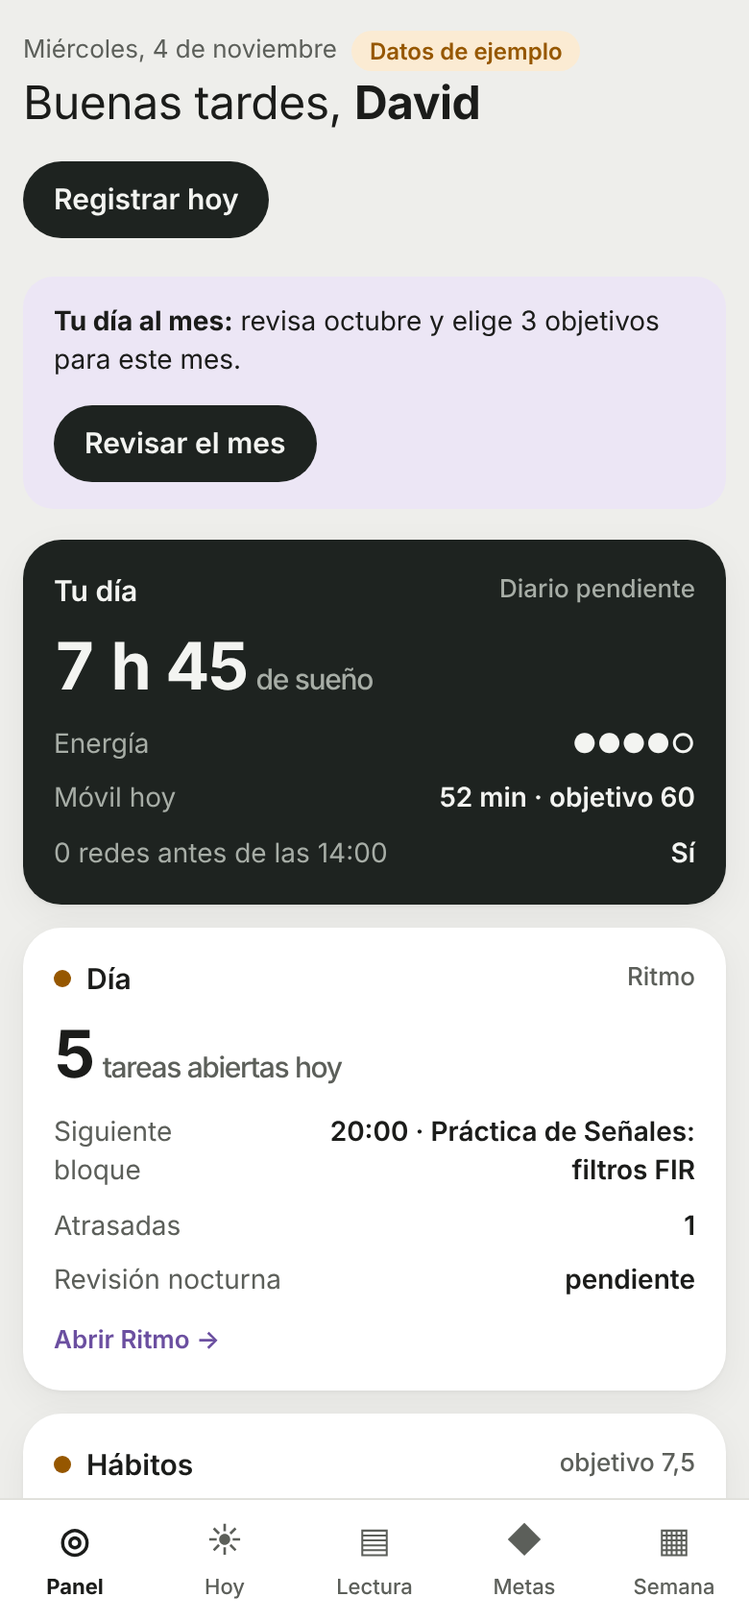
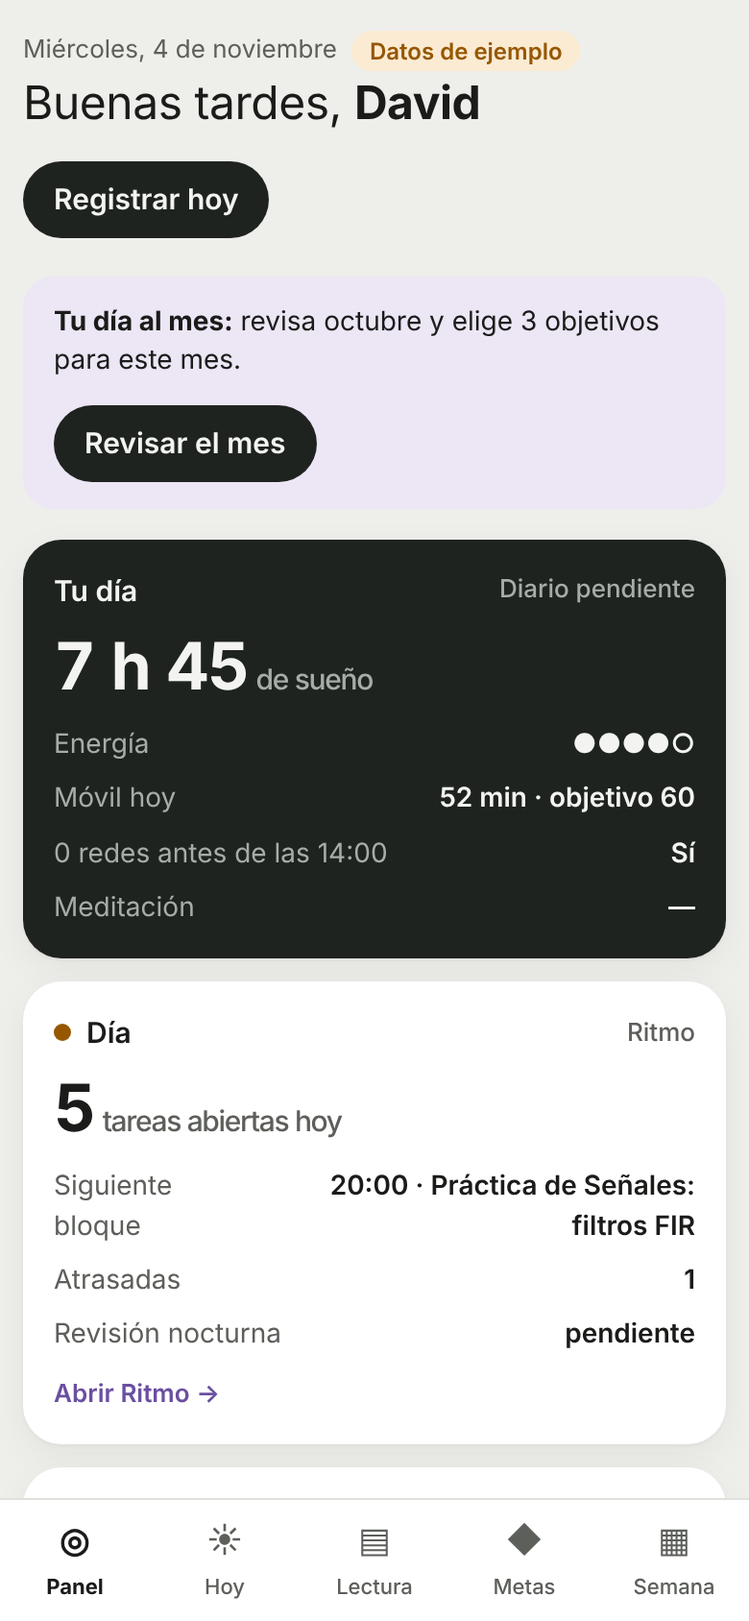
Panel: aviso de copia de seguridad, meditación (también desde Salud) y copiar resumen semanal/mensual en Markdown
Claude-Session: https://claude.ai/code/session_01EwHxjkazRTL95ooTegBwNP

Changed region(s): [[0.0308, 0.5237, 0.9846, 0.9242]]

diff --git a/28-panel-vida/app.js b/28-panel-vida/app.js
@@ -183,6 +183,7 @@
     if (firstRun) out.push(`<div class="callout"><p><b>Primer paso (1 minuto):</b> en <i>Hoy</i> apunta a qué hora te acostaste y te levantaste, tu energía y el móvil. Cada tarjeta se llena sola con lo que apuntes aquí y en tus otras apps. ¿Quieres verlo lleno antes? Carga los datos de ejemplo en <a href="#/ajustes">Ajustes</a>.</p><a class="btn primary" href="#/hoy" style="text-decoration:none">Empezar</a></div>`);
     else if (!S.reviews[wk] && P.dow(t) >= 6) out.push(`<div class="callout"><p><b>Toca la revisión semanal.</b> 10 minutos: cómo fue la semana en todas tus áreas y 3 prioridades para la siguiente.</p><a class="btn primary" href="#/semana" style="text-decoration:none">Empezar</a></div>`);
     else if (!S.reviews[prevWk] && P.dow(t) === 1) out.push(`<div class="callout"><p><b>No hiciste la revisión de la semana pasada.</b> Aún estás a tiempo.</p><a class="btn primary" href="#/semana?d=${P.addDays(t, -7)}" style="text-decoration:none">Hacerla ahora</a></div>`);
+    { const bd = P.backupDue(S, t); if (bd !== null) out.push(`<div class="callout"><p><b>${bd === Infinity ? "Aún no has hecho ninguna copia de seguridad." : `Tu última copia de seguridad es de hace ${bd} días.`}</b> Tus datos solo viven en este navegador: descárgala y guárdala en iCloud o Drive.</p><button class="btn primary" id="backupAll">Descargar copia</button></div>`); }
     { const pm = P.prevYM(t.slice(0, 7)); if (Number(t.slice(8)) <= 7 && !S.monthReviews[pm]) out.push(`<div class="callout"><p><b>Tu día al mes:</b> revisa ${P.MONTHS[Number(pm.slice(5)) - 1]} y elige 3 objetivos para este mes.</p><a class="btn primary" href="#/mes" style="text-decoration:none">Revisar el mes</a></div>`); }
     out.push('<div class="grid">');
     // hero "tu día"
@@ -193,6 +194,7 @@
         <div class="row"><span>Energía</span><b>${e.energy ? "●".repeat(e.energy) + "○".repeat(5 - e.energy) : "sin apuntar"}</b></div>
         <div class="row"><span>Móvil hoy</span><b>${e.screenMin !== undefined ? `${e.screenMin} min · objetivo ${S.settings.screenGoalMin}` : "sin apuntar"}</b></div>
         <div class="row"><span>0 redes antes de las 14:00</span><b>${e.noSocialAM === true ? "Sí" : e.noSocialAM === false ? "No" : "—"}</b></div>
+        <div class="row"><span>Meditación</span><b>${e.meditMin ? `${e.meditMin} min` : "—"}${P.meditStreak(S, t) > 1 ? ` · racha ${P.meditStreak(S, t)}` : ""}</b></div>
       </div>
       ${pri.length ? `<p class="faint" style="margin-top:14px">Prioridades de la semana</p><ol style="margin:6px 0 0;padding-left:18px;font-size:14px">${pri.map((p) => `<li>${esc(p)}</li>`).join("")}</ol>` : ""}
     </section>`);
@@ -305,7 +307,9 @@
           <label class="field">Esfuerzo Bevel (%)<input type="number" inputmode="numeric" min="0" max="100" data-f="strain" value="${e.strain ?? ""}" placeholder="opcional"></label></div>
       </section>
       <section class="card c6"><h2>📵 Móvil</h2><p class="sub">Tu hábito: 0 redes antes de las 14:00 y máximo ${S.settings.screenGoalMin} min.</p>
-        <div class="fields"><label class="field">Tiempo de pantalla (min)<input type="number" inputmode="numeric" min="0" max="1440" step="5" data-f="screenMin" value="${e.screenMin ?? ""}" placeholder="p. ej. 55"></label></div>
+        <div class="fields"><label class="field">Tiempo de pantalla (min)<input type="number" inputmode="numeric" min="0" max="1440" step="5" data-f="screenMin" value="${e.screenMin ?? ""}" placeholder="p. ej. 55"></label>
+          <label class="field">🧘 Meditación (min)<input type="number" inputmode="numeric" min="0" max="600" step="1" data-f="meditMin" value="${e.meditMin ?? ""}" placeholder="p. ej. 10"></label></div>
+        <p class="faint" style="margin-top:6px">Meditación: ${P.meditStreak(S, t)} ${P.meditStreak(S, t) === 1 ? "día seguido" : "días seguidos"}. Las sesiones de «Mindfulness» de Salud llegan solas con Importar salud.</p>
         <label class="check" style="margin-top:12px"><input type="checkbox" data-f="noSocialAM" ${e.noSocialAM ? "checked" : ""}> 0 redes sociales antes de las 14:00</label>
         <details class="help"><summary>¿Dónde lo miro?</summary>iPhone: <i>Ajustes → Tiempo de uso → Ver toda la actividad</i>, pestaña <i>Día</i>. Apunta el total de ayer por la mañana si te resulta más fácil (cambia el día con ‹).</details>
       </section>
@@ -416,7 +420,9 @@
       ["Tareas hechas (Ritmo)", snap.tasksDone != null ? String(snap.tasksDone) : null, null],
       ["Gasto", snap.spend != null ? euros(snap.spend) : null, null],
       ["Diario", `${snap.journalDays} de ${snap.days} días`, null],
+      ["Meditación", snap.meditDays ? `${snap.meditDays} días · ${snap.meditMin} min` : null, undefined],
     ];
+    shareData = { title: `Semana ${Number(wk.slice(6))} · ${P.fmtDay(ws)} – ${P.fmtDay(P.addDays(ws, 6))} ${ws.slice(0, 4)}`, rows: rowsA.map(([k, val]) => [k, val]), review: rv || null };
     const journals = days.filter((d) => P.journalDone(S.days[d])).map((d) => { const j = S.days[d].journal; return `<div class="journal-entry"><b>${P.fmtLong(d)}</b>${j.good ? `✓ ${esc(j.good)}<br>` : ""}${j.better ? `↗ ${esc(j.better)}<br>` : ""}${j.grateful ? `♡ ${esc(j.grateful)}` : ""}</div>`; }).join("");
     const v = rv || { wins: ["", "", ""], lesson: "", priorities: ["", "", ""], score: null };
     const nav = `<div class="seg" role="group" aria-label="Cambiar de semana"><button data-wgo="${P.addDays(ws, -7)}" aria-label="Semana anterior">‹</button>${ws !== P.weekStart(t) ? `<button data-wgo="${t}">Esta semana</button>` : ""}<button data-wgo="${P.addDays(ws, 7)}" aria-label="Semana siguiente" ${P.addDays(ws, 7) > t ? "disabled" : ""}>›</button></div>`;
@@ -434,7 +440,7 @@
             <label class="field">Lo que aprendí / cambiaría<textarea name="lesson" maxlength="500">${esc(v.lesson)}</textarea></label>
             ${[0, 1, 2].map((i) => `<label class="field">Prioridad ${i + 1} para la semana que viene<input name="p${i}" maxlength="300" value="${esc(v.priorities[i] || "")}"></label>`).join("")}
           </div>
-          <div class="actions"><button class="btn primary">${rv ? "Actualizar revisión" : "Guardar revisión"}</button><span class="faint">Se guarda con la foto de los números de arriba.</span></div>
+          <div class="actions"><button class="btn primary">${rv ? "Actualizar revisión" : "Guardar revisión"}</button><button type="button" class="btn" id="shareWeek">Copiar resumen</button><span class="faint">Se guarda con la foto de los números de arriba. «Copiar resumen» lo deja listo para pegar en Obsidian o Notas.</span></div>
         </form></section>
       <section class="card c12 no-print"><h2>Más allá de la semana</h2><div class="actions"><a class="btn" href="#/mes" style="text-decoration:none">Revisión mensual</a><a class="btn" href="#/informe" style="text-decoration:none">Informe anual (PDF)</a><a class="btn" href="../29-importar-salud/" style="text-decoration:none">Importar salud</a></div></section>
       ${trendCard(t)}
@@ -465,6 +471,13 @@
     </div></section>`;
   }
 
+  let shareData = null;
+  async function share() {
+    if (!shareData) return;
+    const text = P.summaryText(shareData.title, shareData.rows, shareData.review);
+    try { await navigator.clipboard.writeText(text); toast("Resumen copiado: pégalo en Obsidian o Notas"); }
+    catch (e) { window.prompt("Copia el resumen:", text); }
+  }
   // ───────────── MES (revisión mensual) e INFORME ANUAL
   function rangeExt(days, X) {
     const e = {};
@@ -484,7 +497,7 @@
     ["Sueño medio", "sleepAvgMin", (v) => h(v)], ["Energía", "energyAvg", (v) => P.fmtDec(v) + " / 5"], ["Recuperación Bevel", "recoveryAvg", (v) => Math.round(v) + " %"],
     ["Móvil", "screenAvg", (v) => Math.round(v) + " min/día"], ["Sesiones de deporte", "sport", (v) => String(v)], ["Hábitos", "habitsMean", (v) => P.fmtDec(v) + " / día"],
     ["Francés", "frMin", (v) => `${P.fmtDec(v / 60)} h`], ["Pasos", "stepsAvg", (v) => P.fmtInt(v) + " /día"], ["Lectura", "pages", (v) => `${v} págs.`],
-    ["Cursos", "learnMin", (v) => `${v} min`], ["Diario", "journalDays", (v) => `${v} días`], ["Gasto", "spend", (v) => euros(v)],
+    ["Cursos", "learnMin", (v) => `${v} min`], ["Diario", "journalDays", (v) => `${v} días`], ["Meditación", "meditMin", (v) => `${v} min`], ["Gasto", "spend", (v) => euros(v)],
   ];
   function vMes(t, X, r) {
     const ym = r.m && `${r.m}-01` <= t ? r.m : P.monthDefault(S, t), days = P.monthDays(ym, t), prev = P.prevYM(ym);
@@ -492,6 +505,7 @@
     const rv = S.monthReviews[ym], v = rv || P.normMonthReview({}), nx = P.nextYM(ym);
     const delta = (k, fmt) => (snap[k] != null && before[k] != null && Math.abs(snap[k] - before[k]) > 0.0001 ? `<span class="faint"> ${snap[k] > before[k] ? "↑" : "↓"} ${fmt(Math.abs(snap[k] - before[k]))}</span>` : "");
     const nav = `<div class="seg" role="group" aria-label="Cambiar de mes"><button data-mgo="${prev}" aria-label="Mes anterior">‹</button><button data-mgo="${nx}" aria-label="Mes siguiente" ${`${nx}-01` > t ? "disabled" : ""}>›</button></div>`;
+    shareData = { title: cap(monthName(ym)), rows: MROWS.map(([label, k, fmt]) => [label, snap[k] == null ? null : fmt(snap[k])]), review: rv || null };
     const habObjs = X.habits ? safe(() => R.objectivesOf(X.habits, ym)) || [] : [];
     return header(`Revisión mensual · tu «día al mes»`, `<b>${cap(monthName(ym))}</b>${rv ? ' <span class="chip ok">hecha</span>' : ""}`, nav) + `<div class="grid">
       <section class="card c5"><h2>Cómo fue el mes <span class="right">${snap.days} días · vs. ${P.MONTHS[Number(prev.slice(5)) - 1]}</span></h2>
@@ -510,7 +524,7 @@
             ${[0, 1, 2].map((i) => `<label class="field">Objetivo ${i + 1} para ${P.MONTHS[Number(nx.slice(5)) - 1]}<input name="o${i}" maxlength="300" value="${esc(v.objectives[i])}"></label>`).join("")}
           </div>
           <label class="check" style="margin-top:12px"><input type="checkbox" name="toHab" ${R ? "checked" : "disabled"}> Poner estos 3 objetivos en Hábitos para ${P.MONTHS[Number(nx.slice(5)) - 1]} (los ves en Ritmo y en la hoja de 15)</label>
-          <div class="actions"><button class="btn primary">${rv ? "Actualizar revisión" : "Guardar revisión"}</button><span class="faint">Se guarda con la foto de los números.</span></div>
+          <div class="actions"><button class="btn primary">${rv ? "Actualizar revisión" : "Guardar revisión"}</button><button type="button" class="btn" id="shareMonth">Copiar resumen</button><span class="faint">Se guarda con la foto de los números.</span></div>
         </form>
         <details class="help"><summary>Ideas para tu día al mes</summary>Repasa tus visiones y metas, mira la tendencia de 8 semanas, ordena finanzas (importa el CSV del banco), planifica el mes en Ritmo y haz la copia de seguridad.</details>
       </section></div>`;
@@ -581,6 +595,7 @@
     if (el.dataset.mgo) { location.hash = `#/mes?m=${el.dataset.mgo}`; return; }
     if (el.dataset.ygo) { location.hash = `#/informe?y=${el.dataset.ygo}`; return; }
     if (el.id === "printBtn") { window.print(); return; }
+    if (el.id === "shareWeek" || el.id === "shareMonth") { share(); return; }
     if (el.dataset.score) { ev.preventDefault(); el.parentElement.querySelectorAll("button").forEach((b) => b.setAttribute("aria-pressed", String(b === el && b.getAttribute("aria-pressed") !== "true"))); return; }
     if (el.dataset.bstatus) { const s = { ...S, books: S.books.map((b) => (b.id === el.dataset.bstatus ? { ...b, status: el.dataset.to } : b)) }; commit(s); return; }
     if (el.dataset.bdel) { const b = S.books.find((x) => x.id === el.dataset.bdel); if (b && confirm(`¿Borrar «${b.title}» y su registro de lectura?`)) commit({ ...S, books: S.books.filter((x) => x !== b), readLog: S.readLog.filter((x) => x.bookId !== b.id) }, "Borrado"); return; }
@@ -595,6 +610,7 @@
         const b = P.buildBackup((k) => store.get(k), P.stamp(new Date())), n = Object.keys(b.data).length;
         const bad = P.APP_KEYS.filter(({ key }) => store.get(key) != null && !(key in b.data)).map((x) => x.app);
         download(`copia-mix-ideas-${today()}.json`, JSON.stringify(b, null, 1));
+        if (corrupt === null && !S.demo) persist({ ...S, lastBackup: today() });
         toast(`Copia descargada (${n} ${n === 1 ? "app" : "apps"})${bad.length ? `. No se pudieron incluir, están dañados: ${bad.join(", ")}` : ""}`);
         return;
       }
@@ -637,7 +653,7 @@
     if (el.dataset.f) {
       const d = $("[data-day]").dataset.day, f = el.dataset.f;
       let v = el.type === "checkbox" ? el.checked : el.value;
-      if (f === "screenMin" || f === "recovery" || f === "strain") v = el.value === "" || !Number.isFinite(Number(el.value)) ? null : Math.max(0, Math.min(f === "screenMin" ? 1440 : 100, Math.round(Number(el.value))));
+      if (f === "screenMin" || f === "recovery" || f === "strain" || f === "meditMin") v = el.value === "" || !Number.isFinite(Number(el.value)) ? null : Math.max(0, Math.min({ screenMin: 1440, meditMin: 600 }[f] || 100, Math.round(Number(el.value))));
       if (persist(P.setDay(S, d, { [f]: v === "" ? null : v }), f === "screenMin" && v !== null ? `Móvil: ${v} min` : null)) refreshHoy();
       else render(); // not saved (damaged data or full storage): show what is really stored
       return;

diff --git a/28-panel-vida/logic.js b/28-panel-vida/logic.js
@@ -77,6 +77,7 @@
     if (Array.isArray(any.goals)) s.goals = any.goals.filter((g) => isObj(g) && typeof g.title === "string" && g.title.trim()).map(normGoal);
     if (isObj(any.reviews)) for (const [w, v] of Object.entries(any.reviews)) if (/^\d{4}-W\d{2}$/.test(w) && isObj(v)) s.reviews[w] = normReview(v);
     if (isObj(any.monthReviews)) for (const [m, v] of Object.entries(any.monthReviews)) if (/^\d{4}-(0[1-9]|1[0-2])$/.test(m) && isObj(v)) s.monthReviews[m] = normMonthReview(v);
+    if (isISO(any.lastBackup)) s.lastBackup = any.lastBackup;
     if (any.demo === true) {
       s.demo = true;
       // what the Panel held before loading the examples; «Quitar datos de ejemplo» brings it back
@@ -91,6 +92,7 @@
     if (numLike(v.energy) && Number(v.energy) >= 1 && Number(v.energy) <= 5) e.energy = Math.round(Number(v.energy));
     if (numLike(v.screenMin) && Number(v.screenMin) >= 0) e.screenMin = Math.min(1440, Math.round(Number(v.screenMin)));
     if (typeof v.noSocialAM === "boolean") e.noSocialAM = v.noSocialAM;
+    if (numLike(v.meditMin) && Number(v.meditMin) >= 0) e.meditMin = Math.min(600, Math.round(Number(v.meditMin)));
     for (const k of ["recovery", "strain"]) if (numLike(v[k]) && Number(v[k]) >= 0 && Number(v[k]) <= 100) e[k] = Math.round(Number(v[k])); // Bevel, %
     if (isObj(v.journal)) {
       const j = {};
@@ -313,6 +315,39 @@
     return dow(today) === 1 && !state.reviews[isoWeek(today)] && !state.reviews[isoWeek(prev)] ? prev : today;
   }
   /** Snapshot numbers for the week of `iso` (Mon–Sun, capped at today). ext comes from other apps. */
+  // ───────────── meditation, backup reminder, shareable summary
+  function meditStats(state, dates) {
+    const v = dates.map((d) => state.days[d]).filter((e) => e && e.meditMin > 0).map((e) => e.meditMin);
+    return { meditDays: v.length, meditMin: v.reduce((a, b) => a + b, 0) };
+  }
+  function meditStreak(state, today) {
+    const on = (d) => !!(state.days[d] && state.days[d].meditMin > 0);
+    let d = on(today) ? today : addDays(today, -1), n = 0;
+    while (on(d)) { n++; d = addDays(d, -1); }
+    return n;
+  }
+  /** null = no reminder; otherwise days since the last full backup (Infinity = never) once there is something to lose. */
+  function backupDue(state, today, days = 7) {
+    const hasData = Object.keys(state.days).length > 0 || state.books.length > 0 || Object.keys(state.reviews).length > 0;
+    if (!hasData || state.demo) return null;
+    if (!state.lastBackup) return Infinity;
+    const n = daysBetween(state.lastBackup, today);
+    return n >= days ? n : null;
+  }
+  /** Markdown text of a week/month snapshot + review, to paste in Obsidian/Notes. rows = [[label, text|null]]. */
+  function summaryText(title, rows, review) {
+    const out = [`## ${title}`, ""];
+    for (const [k, v] of rows) if (v != null && v !== "") out.push(`- **${k}:** ${v}`);
+    if (review) {
+      if (review.score) out.push(`- **Nota:** ${review.score}/10`);
+      const list = (name, a) => { const x = (a || []).filter((s) => String(s).trim()); if (x.length) { out.push("", `**${name}**`); x.forEach((s) => out.push(`- ${s}`)); } };
+      list("Victorias", review.wins);
+      if (review.lesson) out.push("", `**Lección:** ${review.lesson}`);
+      list("Prioridades", review.priorities); list("Objetivos del mes siguiente", review.objectives);
+    }
+    return out.join("\n") + "\n";
+  }
+
   // ───────────── month & year
   const nextYM = (ym) => { const [y, m] = ym.split("-").map(Number); return m === 12 ? `${y + 1}-01` : `${y}-${pad2(m + 1)}`; };
   const prevYM = (ym) => { const [y, m] = ym.split("-").map(Number); return m === 1 ? `${y - 1}-12` : `${y}-${pad2(m - 1)}`; };
@@ -331,7 +366,7 @@
     const weeks = [...new Set(days.map(isoWeek))], rv = weeks.map((w) => state.reviews[w]).filter(Boolean);
     const scores = rv.map((r) => r.score).filter((x) => x != null);
     return { ym, days: days.length, sleepAvgMin: sl.avgMin, debtMin: sl.debtMin, energyAvg: sl.energyAvg, recoveryAvg: mean(vals("recovery")), strainAvg: mean(vals("strain")),
-      screenAvg: sc.avg, screenOnGoal: sc.onGoal, screenN: sc.n, journalDays: days.filter((d) => journalDone(state.days[d])).length,
+      screenAvg: sc.avg, screenOnGoal: sc.onGoal, screenN: sc.n, journalDays: days.filter((d) => journalDone(state.days[d])).length, ...meditStats(state, days),
       pages: rd.pages, lessons: rd.lessons, learnMin: rd.learnMin,
       booksDone: state.books.filter((b) => b.finished && b.finished.slice(0, 7) === ym).map((b) => b.title),
       weekReviews: rv.length, weeks: weeks.length, scoreAvg: mean(scores), ...ext };
@@ -362,7 +397,7 @@
     return {
       week: isoWeek(iso), from: days[0] || weekStart(iso), to: days.at(-1) || weekStart(iso), days: days.length,
       sleepAvgMin: sl.avgMin, energyAvg: sl.energyAvg, screenAvg: sc.avg, journalDays: days.filter((d) => journalDone(state.days[d])).length,
-      pages: rd.pages, lessons: rd.lessons, learnMin: rd.learnMin,
+      pages: rd.pages, lessons: rd.lessons, learnMin: rd.learnMin, ...meditStats(state, days),
       ...ext,
     };
   }
@@ -450,7 +485,7 @@
 
   const api = {
     KEY, isISO, isHM, isObj, esc, todayISO, stamp, numLike, SETTING_RANGE, reviewDefault, cleanLang, FR_B2_DATE, WOXSEN_DATE, addDays, daysBetween, dow, weekStart, weekDays, range, isoWeek, fmtDay, fmtLong, fmtInt, fmtDec, fmtHours, hm2min, min2hm, MONTHS,
-    DEFAULT_SETTINGS, AREAS, AUTO, STATUS_LABEL, emptyState, migrate, setDay, makeId, normBook, normGoal, normReview, normMonthReview, nextYM, prevYM, monthDays, monthSnapshot, monthDefault, yearReport,
+    DEFAULT_SETTINGS, AREAS, AUTO, STATUS_LABEL, emptyState, migrate, setDay, makeId, normBook, normGoal, normReview, normMonthReview, nextYM, prevYM, monthDays, monthSnapshot, monthDefault, yearReport, meditStats, meditStreak, backupDue, summaryText,
     sleepMinutes, sleepStats, screenStats, pctChange, journalDone, journalStreak, logReading, readingStats, bookEta,
     goalProgress, starterGoals, COUNTDOWNS, countdowns, parseCountdowns, countdownsText, trend, weekSnapshot, lights, APP_KEYS, buildBackup, parseBackup, demoState, mean,
   };

diff --git a/29-importar-salud/logic.js b/29-importar-salud/logic.js
@@ -153,7 +153,7 @@
   }
 
   // ───────────── Apple Health export.xml (streaming): steps, sleep and workouts
-  const STEP = "HKQuantityTypeIdentifierStepCount", SLEEP = "HKCategoryTypeIdentifierSleepAnalysis";
+  const STEP = "HKQuantityTypeIdentifierStepCount", SLEEP = "HKCategoryTypeIdentifierSleepAnalysis", MINDFUL = "HKCategoryTypeIdentifierMindfulSession";
   const MAX_TAG = 1 << 20;
   function attrs(tag) {
     const a = {}; const re = /([A-Za-z_:][\w:.-]*)\s*=\s*("([^"]*)"|'([^']*)')/g; let m;
@@ -165,7 +165,7 @@
   function tagEnd(s, from) { let q = null; for (let i = from; i < s.length; i++) { const c = s[i]; if (q) { if (c === q) q = null; } else if (c === '"' || c === "'") q = c; else if (c === ">") return i; } return -1; }
   function createHealthParser() {
     let buf = "", cur = null; // cur = open <Workout> collecting <WorkoutStatistics>
-    const steps = {}, sleep = [], workouts = []; let skipped = 0;
+    const steps = {}, sleep = [], workouts = [], mindful = {}; let skipped = 0;
     function onTag(tag) {
       if (tag.startsWith("<Record")) {
         if (tag.indexOf(STEP) >= 0) {
@@ -173,6 +173,11 @@
           const d = healthDate(a.startDate), v = Number(a.value);
           if (!d || !(v >= 0)) { skipped++; return; }
           const src = (a.sourceName || "?").trim(); (steps[d.date] ||= {})[src] = (steps[d.date][src] || 0) + v;
+        } else if (tag.indexOf(MINDFUL) >= 0) {
+          const a = attrs(tag); if (a.type !== MINDFUL) return;
+          const s = healthDate(a.startDate), e = healthDate(a.endDate);
+          if (!s || !e) { skipped++; return; }
+          const src = (a.sourceName || "?").trim(); (mindful[s.date] ||= {})[src] = (mindful[s.date][src] || 0) + span(s, e);
         } else if (tag.indexOf(SLEEP) >= 0) {
           const a = attrs(tag); if (a.type !== SLEEP) return;
           const s = healthDate(a.startDate), e = healthDate(a.endDate);
@@ -210,7 +215,11 @@
         onTag(buf.slice(s, e + 1)); i = e + 1;
       }
     }
-    function finish() { return summarizeHealth(steps, sleep, workouts, skipped); }
+    function finish() {
+      const r = summarizeHealth(steps, sleep, workouts, skipped);
+      for (const [d, bySrc] of Object.entries(mindful)) { const m = Math.round(Math.max(...Object.values(bySrc))); if (m > 0) (r.days[d] ||= { date: d }).meditMin = Math.min(600, m); }
+      return r;
+    }
     return { push, finish };
   }
   /** Steps: max source per day (iPhone + Watch not added). Sleep: per night (= wake-up date), the source with most minutes;
@@ -243,8 +252,8 @@
   /** health = summarizeHealth(...) | null, shortcut = parseShortcut(...).days | null, strava = workouts | null. */
   function buildPreview({ health = null, shortcut = null, strava = null } = {}) {
     const days = {};
-    const put = (d) => (days[d] ||= { date: d, steps: null, bed: null, wake: null, asleepMin: null, workouts: [] });
-    if (health) for (const x of Object.values(health.days)) { const e = put(x.date); if (x.steps) e.steps = x.steps; if (x.bed) { e.bed = x.bed; e.wake = x.wake; e.asleepMin = x.asleepMin; } }
+    const put = (d) => (days[d] ||= { date: d, steps: null, bed: null, wake: null, asleepMin: null, meditMin: null, workouts: [] });
+    if (health) for (const x of Object.values(health.days)) { const e = put(x.date); if (x.steps) e.steps = x.steps; if (x.meditMin) e.meditMin = x.meditMin; if (x.bed) { e.bed = x.bed; e.wake = x.wake; e.asleepMin = x.asleepMin; } }
     if (shortcut) for (const x of shortcut) { const e = put(x.date); if (x.steps) e.steps = x.steps; if (x.bed) { e.bed = x.bed; e.wake = x.wake; } }
     const ws = dedupWorkouts([...(health ? health.workouts : []), ...(strava || [])].map((w) => ({ ...w, sources: undefined })));
     for (const w of ws) put(w.date).workouts.push({ ...w, pasoType: pasoType(w), on: DEFAULT_ON(w.kind) });

diff --git a/29-importar-salud/app.js b/29-importar-salud/app.js
@@ -22,7 +22,7 @@
     const nW = preview.reduce((a, d) => a + d.workouts.length, 0);
     $("#pvCount").textContent = `${preview.length} días · ${nW} entrenos`;
     $("#pvBody").innerHTML = preview.slice(0, 120).map((d, i) => `<tr><td>${dayLabel(d.date)}</td><td class="n">${d.steps ? fmtInt(d.steps) : "—"}</td>
-      <td class="n">${d.bed ? `${d.bed} → ${d.wake}${d.asleepMin ? ` <span class="faint">(${Math.floor(d.asleepMin / 60)} h ${String(d.asleepMin % 60).padStart(2, "0")} dormido)</span>` : ""}` : "—"}</td>
+      <td class="n">${d.meditMin ? `🧘 ${d.meditMin} min<br>` : ""}${d.bed ? `${d.bed} → ${d.wake}${d.asleepMin ? ` <span class="faint">(${Math.floor(d.asleepMin / 60)} h ${String(d.asleepMin % 60).padStart(2, "0")} dormido)</span>` : ""}` : "—"}</td>
       <td>${d.workouts.map((w, j) => `<label class="wk"><input type="checkbox" data-d="${i}" data-w="${j}" ${w.on ? "checked" : ""}> ${esc(S.KIND_LABEL[w.kind])}${w.start ? " " + w.start : ""} · ${w.minutes} min${w.km ? ` · ${String(w.km).replace(".", ",")} km` : ""} <span class="faint">${esc(w.sources.join(" + "))}</span></label>`).join("") || "—"}</td></tr>`).join("");
     $("#pvNote").textContent = preview.length > 120 ? `Se muestran los 120 días más recientes; se importan los ${preview.length}.` : "";
   }
@@ -93,6 +93,7 @@
     try { if (rawP) { const o = JSON.parse(rawP); if (!o || typeof o !== "object" || Array.isArray(o)) throw new Error("x"); panel = PL.migrate(o); } else panel = Object.assign(PL.emptyState(), { goals: PL.starterGoals(t) }); } catch (e) { alert("Los datos del Panel están dañados: ábrelo y revísalo antes de importar. No se ha cambiado nada."); return; }
     let nights = 0, keptNights = 0;
     for (const d of preview) {
+      if (d.meditMin && (over || !(panel.days[d.date] && panel.days[d.date].meditMin))) panel = PL.setDay(panel, d.date, { meditMin: d.meditMin });
       if (!d.bed) continue;
       const cur = panel.days[d.date];
       if (cur && cur.bed && cur.wake && !over) { keptNights++; continue; }

diff --git a/28-panel-vida/tests/logic.test.js b/28-panel-vida/tests/logic.test.js
@@ -369,3 +369,18 @@ test("informe anual: meses hasta hoy, totales y libros del año", () => {
   assert.equal(y.totals.sleepAvgMin, 480); assert.deepEqual(y.books.map((b) => b.title), ["Meditaciones"]);
   assert.equal(L.yearReport(s, 2027, T).months.length, 0);
 });
+
+test("meditación, aviso de copia y resumen para compartir", () => {
+  let s = L.emptyState();
+  assert.equal(L.backupDue(s, T), null); // nada que perder todavía
+  s = L.setDay(s, "2026-11-02", { meditMin: 10 }); s = L.setDay(s, "2026-11-03", { meditMin: 15 });
+  assert.equal(L.meditStreak(s, T), 2);
+  assert.deepEqual(L.meditStats(s, L.weekDays(T)), { meditDays: 2, meditMin: 25 });
+  assert.equal(L.weekSnapshot(s, T, T).meditMin, 25);
+  assert.equal(L.backupDue(s, T), Infinity);
+  assert.equal(L.backupDue(L.migrate({ ...s, lastBackup: "2026-11-01" }), T), null);
+  assert.equal(L.backupDue(L.migrate({ ...s, lastBackup: "2026-10-20" }), T), 15);
+  assert.equal(L.migrate({ days: { [T]: { meditMin: 9999 } } }).days[T].meditMin, 600);
+  const txt = L.summaryText("Semana 45", [["Sueño medio", "7 h 50"], ["Pasos", null]], { score: 8, wins: ["5K", ""], priorities: ["Francés"], lesson: "" });
+  assert.equal(txt, "## Semana 45\n\n- **Sueño medio:** 7 h 50\n- **Nota:** 8/10\n\n**Victorias**\n- 5K\n\n**Prioridades**\n- Francés\n");
+});

diff --git a/29-importar-salud/tests/logic.test.js b/29-importar-salud/tests/logic.test.js
@@ -67,3 +67,12 @@ test("Atajos: JSON, clave=valor y formatos de hora del iPhone", () => {
   assert.equal(S.normHM("2026-11-04 07:05:00"), "07:05");
   assert.equal(S.normHM("25:00"), null);
 });
+
+test("Salud: minutos de mindfulness por día (fuente mayor)", () => {
+  const xml = '<HealthData><Record type="HKCategoryTypeIdentifierMindfulSession" sourceName="Salud" startDate="2026-11-03 22:00:00 +0100" endDate="2026-11-03 22:10:00 +0100" value="HKCategoryValueNotApplicable"/>' +
+    '<Record type="HKCategoryTypeIdentifierMindfulSession" sourceName="Salud" startDate="2026-11-03 07:00:00 +0100" endDate="2026-11-03 07:05:00 +0100"/></HealthData>';
+  const p = S.createHealthParser(); p.push(xml);
+  const h = p.finish();
+  assert.equal(h.days["2026-11-03"].meditMin, 15);
+  assert.equal(S.buildPreview({ health: h })[0].meditMin, 15);
+});

diff --git a/sw.js b/sw.js
@@ -6,7 +6,7 @@
    - A file that cannot be downloaded during the install keeps its copy from the previous version.
    - Slow network and nothing cached: it keeps waiting for the network instead of failing at 4 s.
    - Folders: "app/" and "app/index.html" are the same page offline; "app" (no final slash) is sent to "app/". */
-const VERSION = "754d29937add";
+const VERSION = "812f712c23ee";
 const CACHE = "mix-ideas-" + VERSION;
 const TIMEOUT_MS = 4000;
 const FILES = [

diff --git a/28-panel-vida/README.md b/28-panel-vida/README.md
@@ -44,6 +44,10 @@ NODE_PATH=$(npm root -g) node tests/smoke.js     # recorrido completo en Chromiu
 - ✅ Revisión mensual con envío de objetivos a Hábitos, informe anual imprimible y recuperación/esfuerzo de **Bevel** en *Hoy* (media en la tarjeta de sueño y en el mes).
 - ✅ Acceso directo a [Importar salud](../29-importar-salud/) (Atajo del iPhone, `export.xml`, Strava).
 
+- ✅ **Aviso de copia de seguridad** en el Panel si la última tiene más de 7 días (o nunca hiciste una); se recuerda al descargarla.
+- ✅ **Meditación** en *Hoy* (minutos y racha), en la semana, el mes y el informe; las sesiones de «Mindfulness» de Salud llegan con Importar salud.
+- ✅ **Copiar resumen** en *Semana* y *Mes*: texto en Markdown con los números y tu revisión, listo para pegar en Obsidian o Notas.
+
 ## Qué falta / siguientes pasos
 - Gráficas de tendencia de varias semanas (sueño y móvil) y correlaciones más finas (p. ej. móvil ↔ sueño).
 - Importar el tiempo de pantalla y el sueño directamente de Apple Health (Paso ya sabe leer `export.xml`).

diff --git a/BITACORA.md b/BITACORA.md
@@ -180,3 +180,6 @@ Leídas: *Visión Profesional*, *Visión Deporte*, *Visión Idiomas*, *Visión F
 - **B:** *Mes* con foto del mes y 3 objetivos que pasan a Hábitos (protocolo de Ritmo, sin tocar ticks). **D:** *Informe anual* imprimible en PDF. **Bevel:** recuperación y esfuerzo en *Hoy*.
 - **Problemas:** el test del Atajo usaba una fecha futura (Paso las rechaza) y un cambio solo de `#hash` no recargaba la página → la página escucha `hashchange`. El informe contaba como cero los meses sin datos → se omiten.
 - Pendiente a petición tuya: sincronización en la nube con un servidor en casa (idea 18).
+
+## Extras finales — hasta 17:02
+- Aviso de copia de seguridad (> 7 días), meditación (Hoy, semana, mes, informe; importada de «Mindfulness» de Salud) y «Copiar resumen» en Markdown para Obsidian. +2 tests. Guía de inicio en `GUIA-INICIO.md`.
